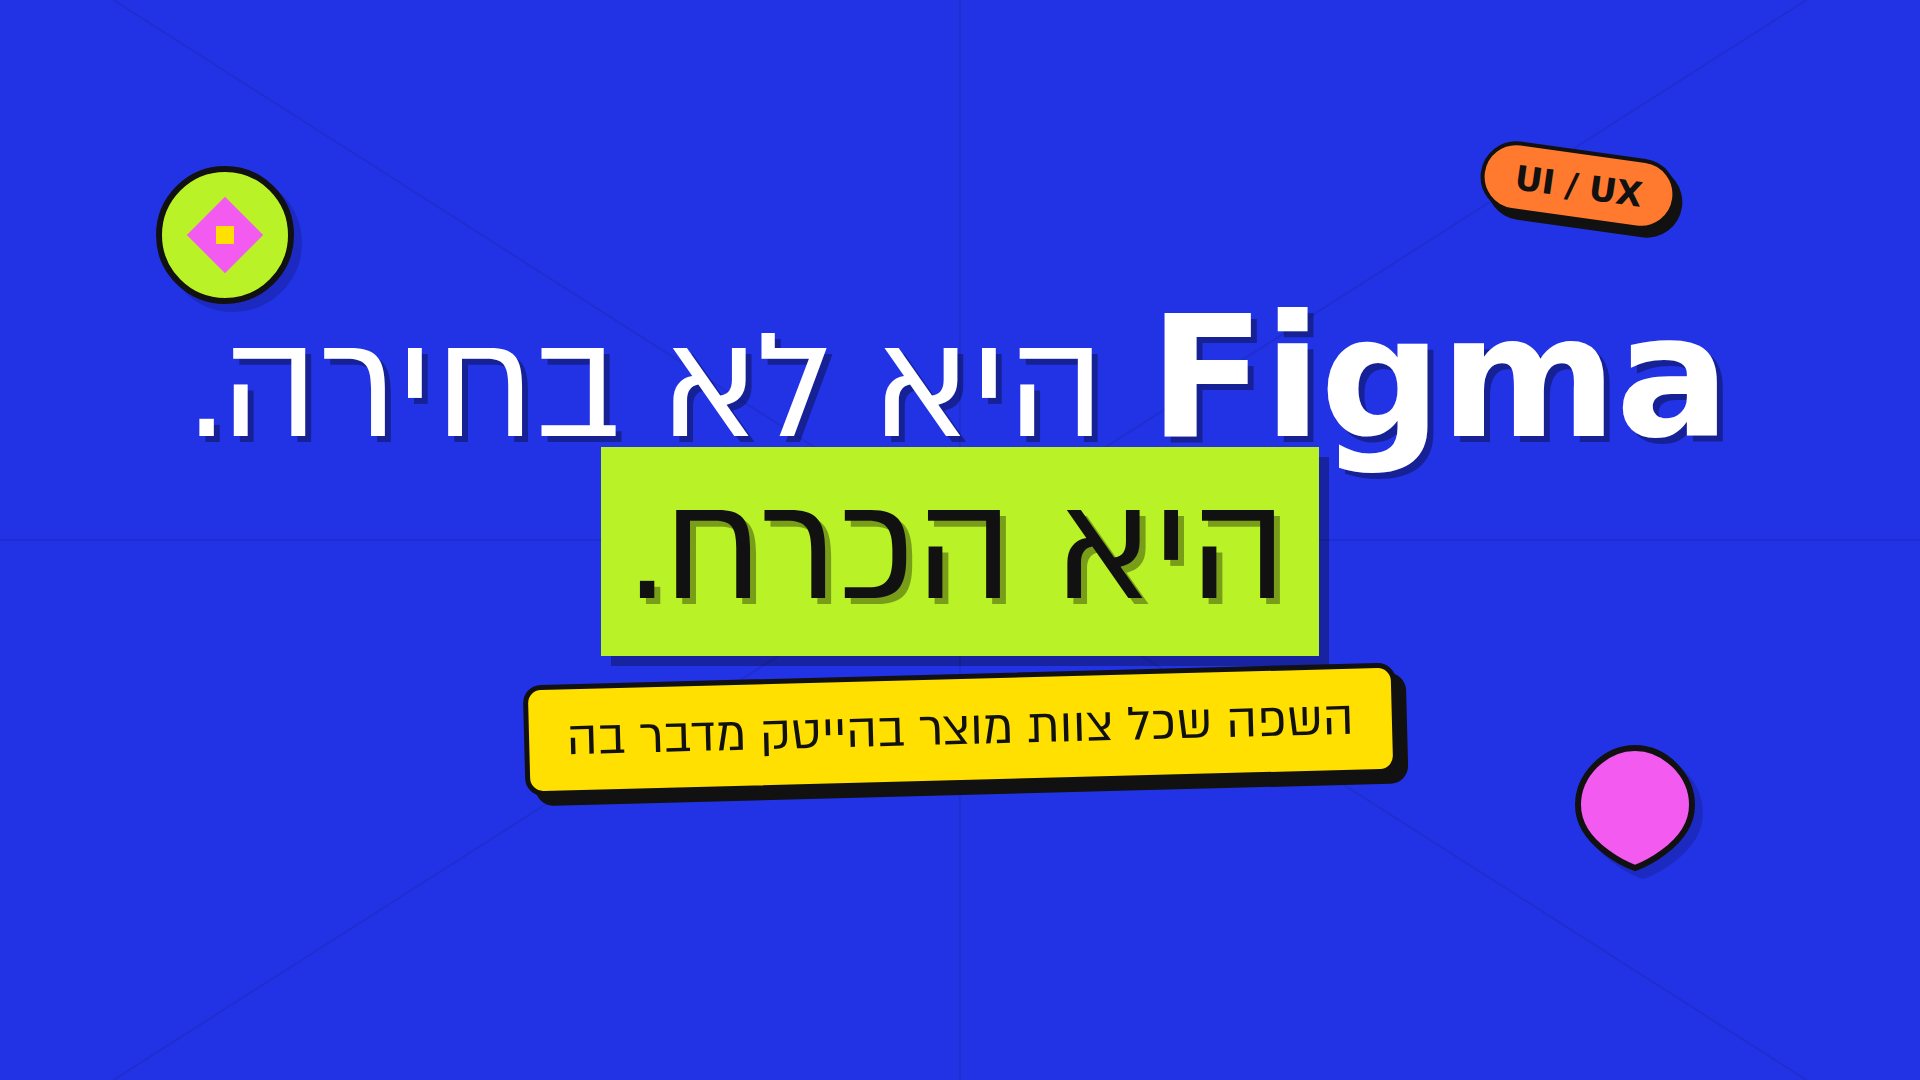
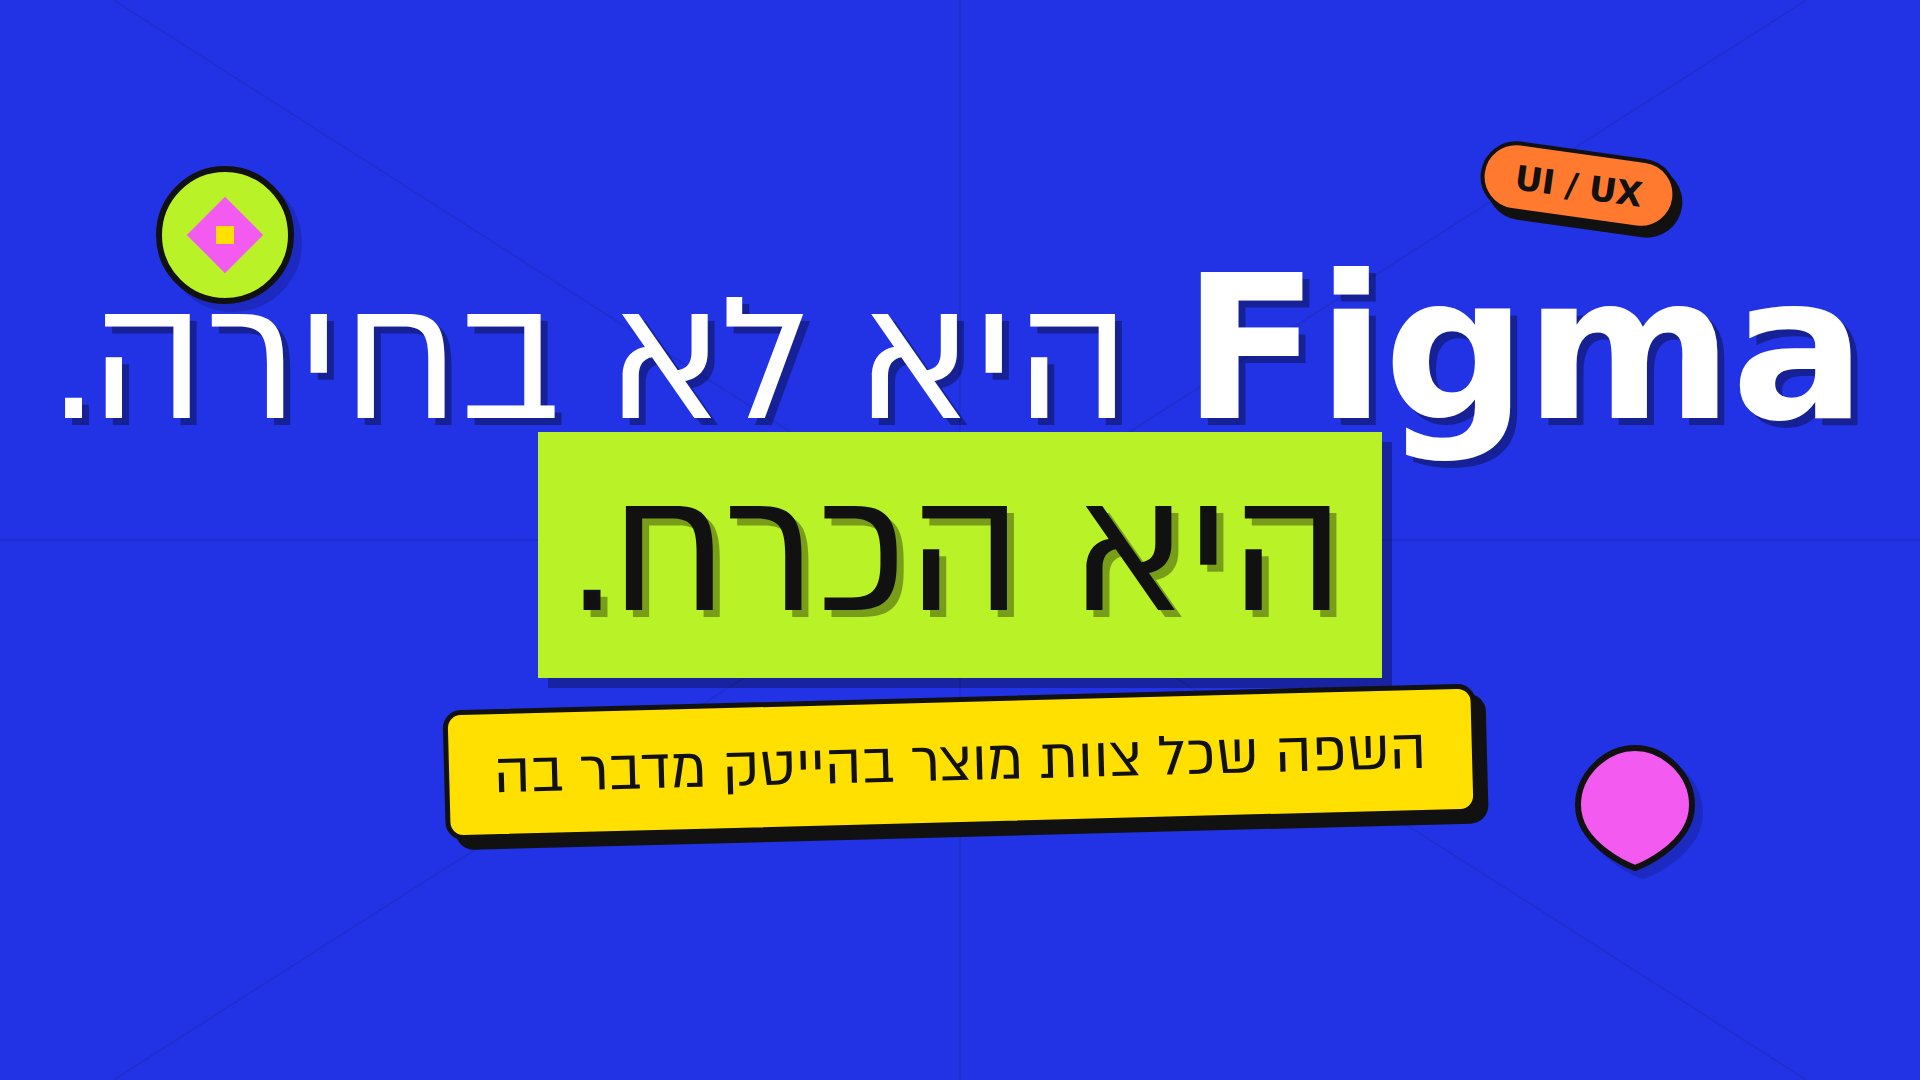
Enlarge frame typography per feedback

Changed region(s): [[0.0312, 0.2444, 0.9688, 0.7944]]

diff --git a/trailer/frames/frame02.html b/trailer/frames/frame02.html
@@ -2,15 +2,15 @@
 <link rel="stylesheet" href="base.css">
 <style>
   body{background:var(--pink)}
-  .kicker{font-size:46px;font-weight:800;color:var(--paper);
-    text-shadow:4px 4px 0 var(--ink);margin-bottom:6px}
-  .title{font-size:230px;line-height:.92;font-weight:900;color:var(--ink);
+  .kicker{font-size:104px;font-weight:900;color:var(--paper);
+    text-shadow:6px 6px 0 var(--ink);margin-bottom:14px;letter-spacing:-.01em}
+  .title{font-size:270px;line-height:.92;font-weight:900;color:var(--ink);
     display:flex;align-items:center;gap:28px}
-  .figmabox{background:var(--lav);border:6px solid var(--ink);
-    box-shadow:14px 14px 0 var(--lime);padding:.02em .22em;transform:rotate(-2deg)}
-  .sub{margin-top:30px;font-size:50px;font-weight:800;color:var(--ink);
-    background:var(--paper);border:5px solid var(--ink);border-radius:999px;
-    padding:.18em .8em;box-shadow:8px 8px 0 var(--ink)}
+  .figmabox{background:var(--lav);border:7px solid var(--ink);
+    box-shadow:16px 16px 0 var(--lime);padding:.02em .22em;transform:rotate(-2deg)}
+  .sub{margin-top:38px;font-size:60px;font-weight:800;color:var(--ink);
+    background:var(--paper);border:6px solid var(--ink);border-radius:999px;
+    padding:.18em .85em;box-shadow:9px 9px 0 var(--ink)}
 </style></head>
 <body><div class="stage">
 

diff --git a/trailer/frames/frame04.html b/trailer/frames/frame04.html
@@ -2,16 +2,16 @@
 <link rel="stylesheet" href="base.css">
 <style>
   body{background:var(--lime)}
-  .big{font-size:200px;line-height:.9;font-weight:900;color:var(--ink)}
+  .big{font-size:230px;line-height:.9;font-weight:900;color:var(--ink)}
   .big em{font-style:normal;background:var(--pink);color:var(--paper);
-    padding:.01em .16em;box-shadow:12px 12px 0 var(--ink);display:inline-block;
+    padding:.01em .16em;box-shadow:14px 14px 0 var(--ink);display:inline-block;
     transform:rotate(-2deg)}
-  .cta{margin-top:54px;font-size:62px;font-weight:800;color:var(--paper);
+  .cta{margin-top:60px;font-size:72px;font-weight:800;color:var(--paper);
     background:var(--ink);border-radius:999px;padding:.28em 1.1em;
     box-shadow:12px 12px 0 rgba(0,0,0,.25)}
   .cta .latin{color:var(--lime)}
-  .foot{position:absolute;left:0;right:0;bottom:54px;display:flex;
-    align-items:center;justify-content:center;gap:18px;font-size:40px;
+  .foot{position:absolute;left:0;right:0;bottom:48px;display:flex;
+    align-items:center;justify-content:center;gap:18px;font-size:48px;
     font-weight:800;color:var(--ink)}
 </style></head>
 <body><div class="stage">

diff --git a/trailer/frames/frame03.html b/trailer/frames/frame03.html
@@ -5,11 +5,11 @@
   .stage{color:var(--paper)}
   /* perspective grid like the figma ref */
   .grid{position:absolute;inset:0;opacity:.5}
-  .big{font-size:170px;line-height:.96;font-weight:900;color:var(--paper);
-    text-shadow:6px 6px 0 rgba(0,0,0,.35)}
+  .big{font-size:200px;line-height:.96;font-weight:900;color:var(--paper);
+    text-shadow:7px 7px 0 rgba(0,0,0,.35)}
   .big em{font-style:normal;background:var(--lime);color:var(--ink);
     padding:.02em .18em;box-shadow:10px 10px 0 rgba(0,0,0,.3)}
-  .sub{margin-top:40px;font-size:54px;font-weight:800;color:var(--ink);
+  .sub{margin-top:46px;font-size:64px;font-weight:800;color:var(--ink);
     background:var(--yellow);border:5px solid var(--ink);border-radius:18px;
     padding:.2em .7em;box-shadow:10px 10px 0 var(--ink);transform:rotate(-1.5deg)}
 </style></head>

diff --git a/trailer/frames/frame01.html b/trailer/frames/frame01.html
@@ -14,9 +14,9 @@
   .label{position:absolute;font-weight:800;font-size:26px;color:var(--blue);
     direction:ltr}
   .cursor{position:absolute;width:46px;height:46px;filter:drop-shadow(3px 4px 0 rgba(0,0,0,.25))}
-  .headline{position:absolute;left:0;right:0;bottom:70px;text-align:center;
-    color:var(--paper);font-weight:900;font-size:62px;
-    text-shadow:5px 5px 0 var(--ink)}
+  .headline{position:absolute;left:0;right:0;bottom:56px;text-align:center;
+    color:var(--paper);font-weight:900;font-size:82px;
+    text-shadow:6px 6px 0 var(--ink)}
 </style></head>
 <body><div class="stage">
 
